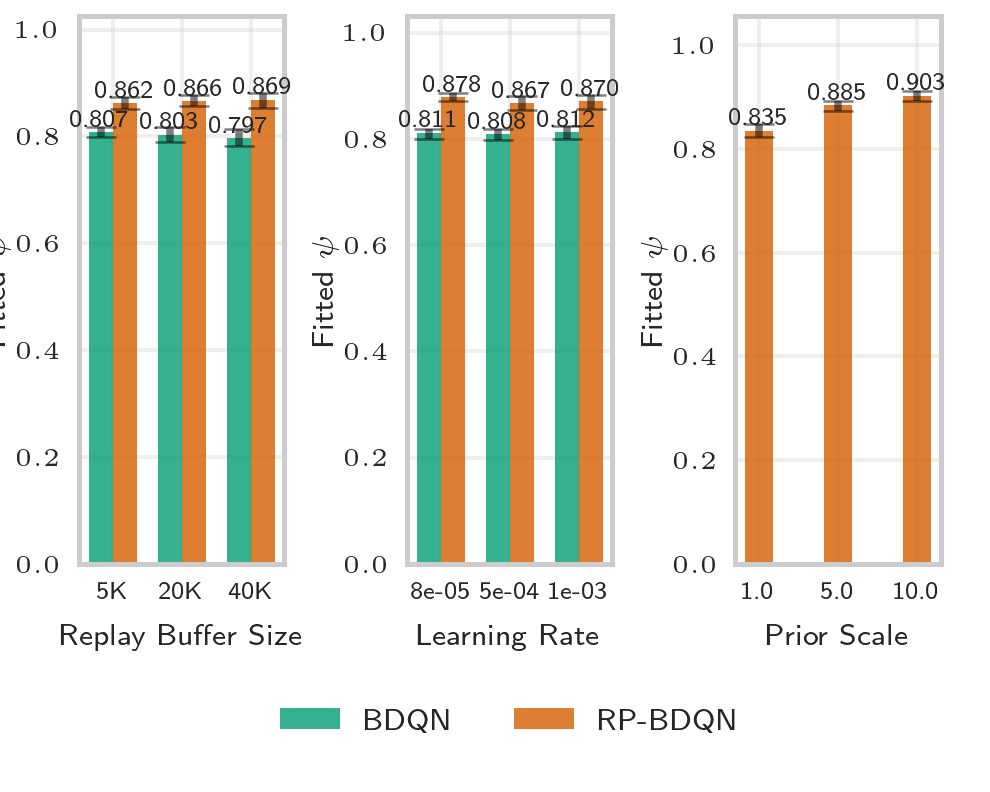
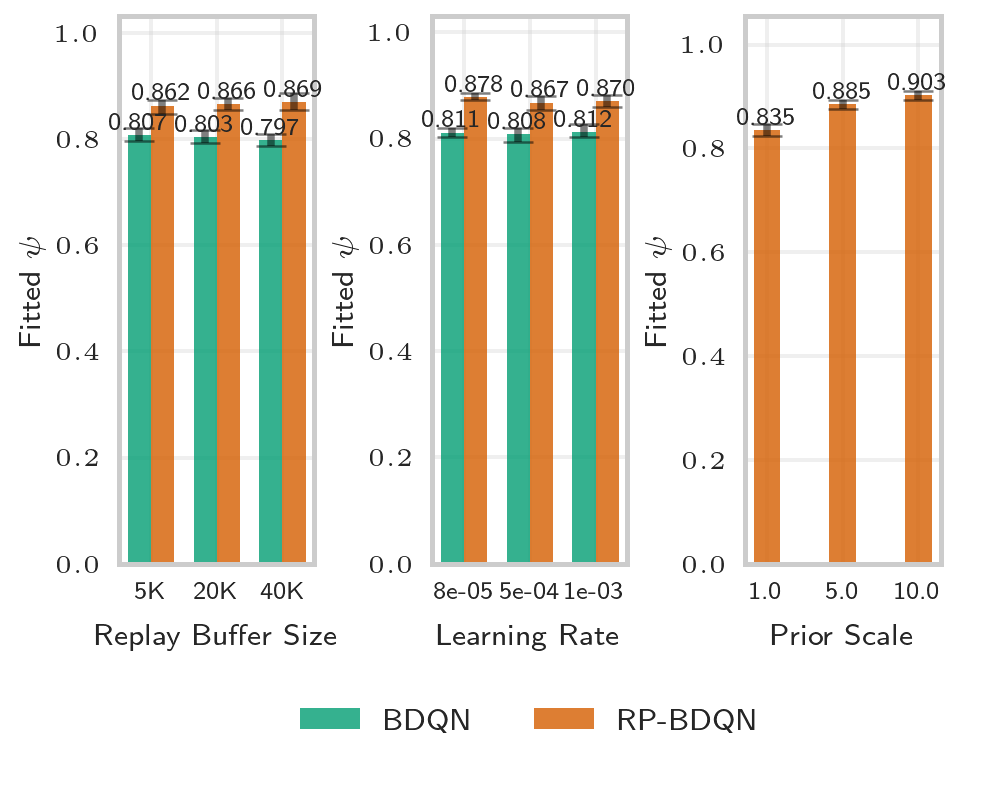
updating plots

diff --git a/evaluate.py b/evaluate.py
@@ -361,7 +361,7 @@ def plot_residuals():
     agg = make_agg(RUN_NAME)
 
     fig, ax = plt.subplots(
-        1, 1, figsize=(SINGLE_COLUMN_WIDTH, SINGLE_COLUMN_WIDTH * 1.09), tight_layout=True
+        1, 1, figsize=(SINGLE_COLUMN_WIDTH, SINGLE_COLUMN_WIDTH * 0.8), tight_layout=True
     )
 
     kind_map = {"boot": "BDQN", "bootrp": "RP-BDQN"}
@@ -440,7 +440,7 @@ def plot_diversity_collapse():
     df_critical = df_agg.query("8 <= hardness <= 12 and 3 <= ensemble_size <= 6").copy()
 
     fig, ax = plt.subplots(
-        figsize=(SINGLE_COLUMN_WIDTH, SINGLE_COLUMN_WIDTH * 1.2), tight_layout=True
+        figsize=(SINGLE_COLUMN_WIDTH, SINGLE_COLUMN_WIDTH * 0.8), tight_layout=True
     )
 
     # 2. Setup aesthetics and loop variables
@@ -535,7 +535,7 @@ def plot_hyperparameter_sweep():
         figure=fig,
         bottom=0.2,
         top=0.98,
-        left=0.08,
+        left=0.12,
         right=0.95,
         wspace=0.6,
         hspace=0.05,
@@ -619,7 +619,7 @@ def plot_hyperparameter_sweep():
             ax.set_xlabel("Replay Buffer Size", fontsize=FONT_BIG)
         if hp == "prior_scale":
             ax.set_xlabel("Prior Scale", fontsize=FONT_BIG)
-        ax.set_ylabel("Fitted $\psi$", labelpad=1, fontsize=FONT_BIG)
+        ax.set_ylabel("Fitted $\psi$", labelpad=2, fontsize=FONT_BIG)
         ax.set_xticks(x_pos)
         ax.tick_params(axis="y", labelsize=FONT_SMALL)
 
